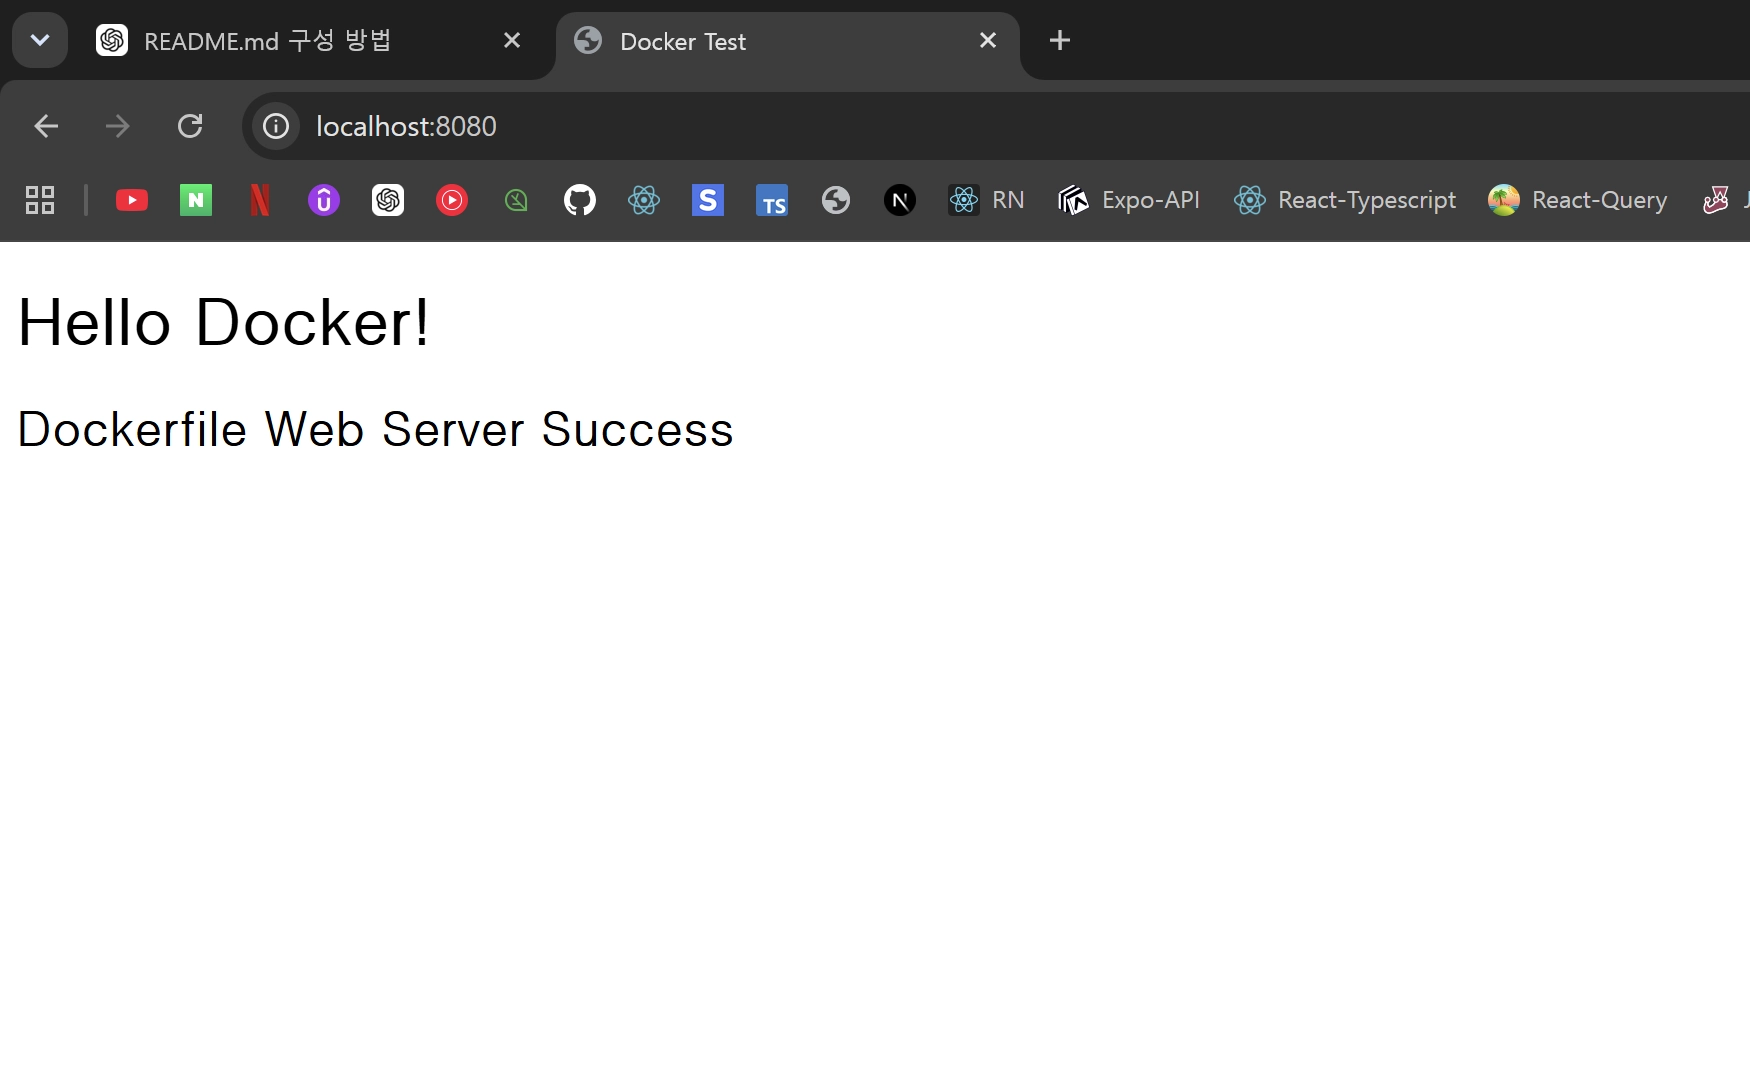
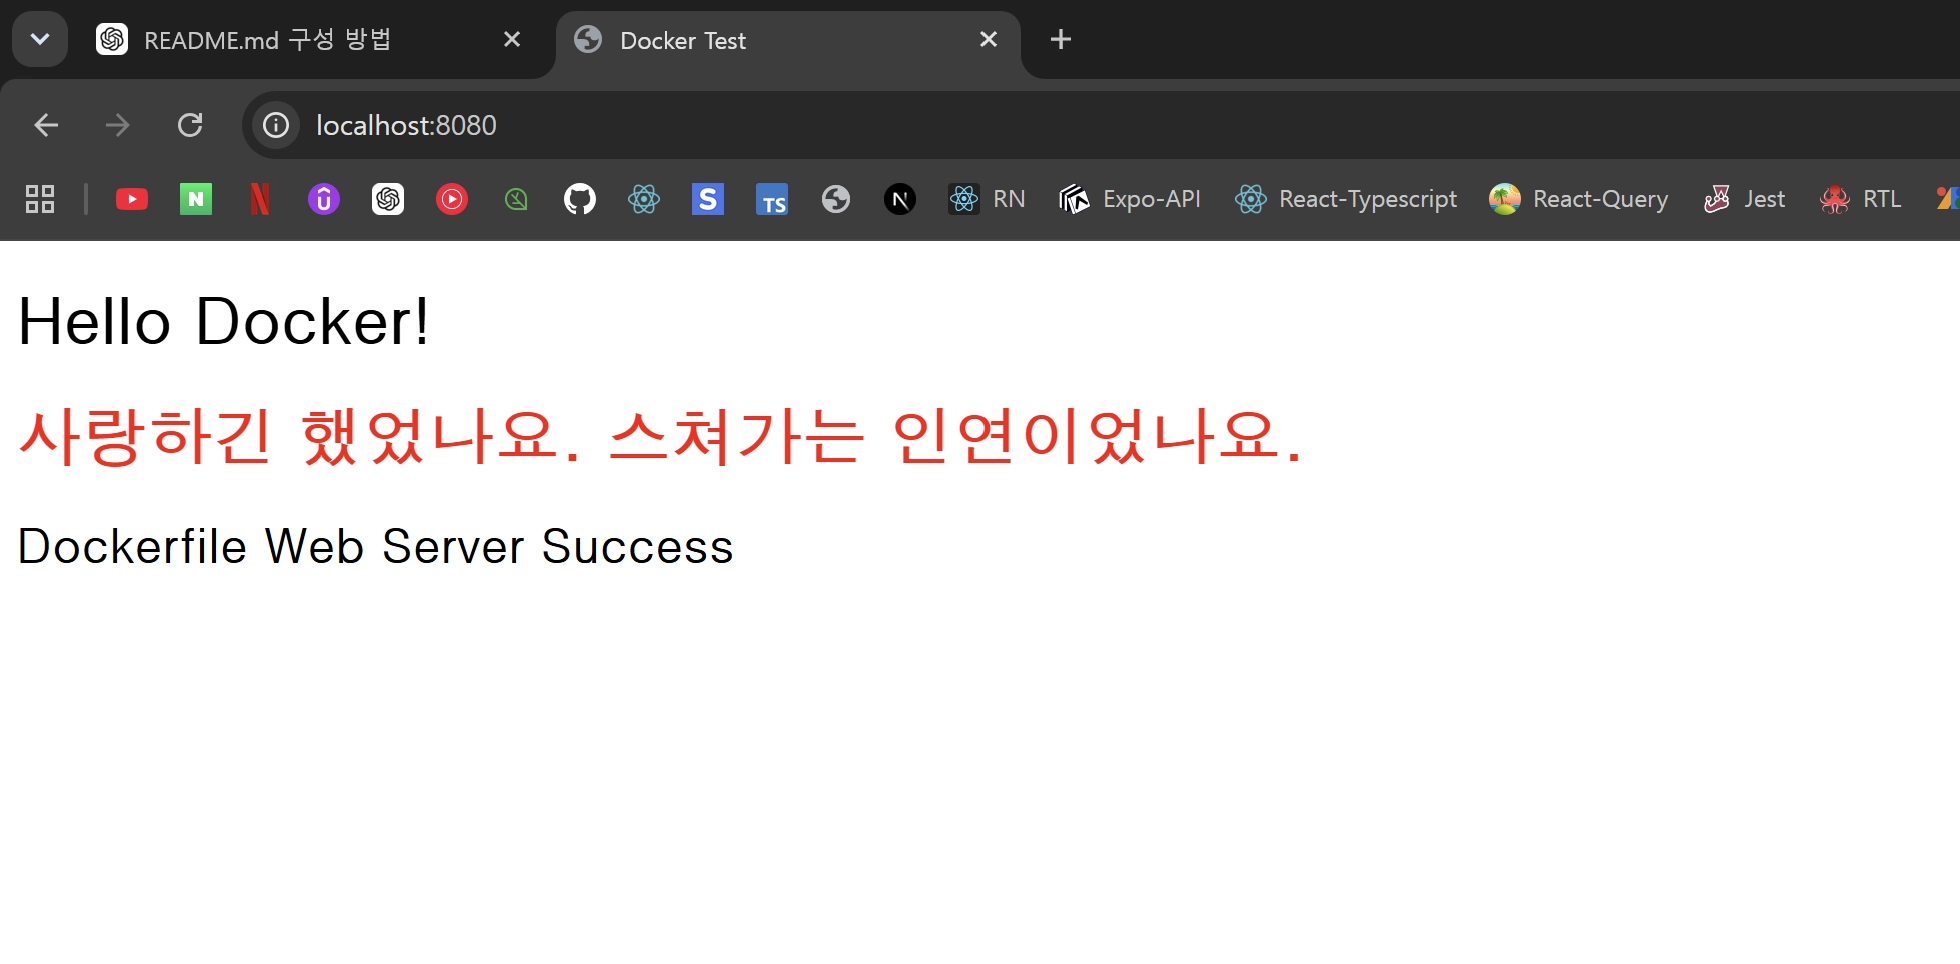
update

diff --git a/README.md b/README.md
@@ -164,6 +164,8 @@ exec 확인
 ![](./screenshot/docker-images/docker-custom-1.png)
 
 Dockerfile에 기재
+apt -> 우분투 계열 리눅스 패키지 관리 도구
+
 ```
 FROM ubuntu:24.04
 
@@ -185,6 +187,8 @@ CMD ["/bin/bash"]
 ```
 
 빌드
+-t는 빌드로 생성할 이미지에 이름을 붙이는 것
+.은 경로
 ![](./screenshot/docker-images/docker-custom-2.png)
 
 컨테이너 실행
